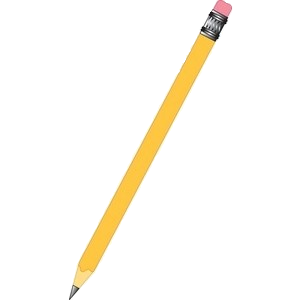
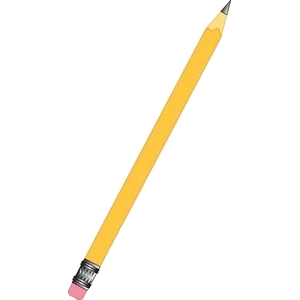
sizing

Changed region(s): [[0.21, 0.0, 0.78, 1.0]]

diff --git a/index.html b/index.html
@@ -36,7 +36,7 @@
 <body>
 
 <div id='page_wrap'>
-<!-- <img src='./images/p.PNG' id='pencil' ></img> -->
+<img src='./images/phalf.PNG' id='pencil' ></img>
 <img src='./images/eraser.gif' id='eraser' ></img>
 <img src='./images/paper.PNG' id='paper' ></img>
 <img src='./images/tofu.PNG' id='tofu' ></img>

diff --git a/style.css b/style.css
@@ -46,10 +46,11 @@ body {
 
 #pencil {
 	position: absolute;
-	margin-top:10px;
-	margin-left: 740px;
-	height:550px;
-	width: 340px;
+	margin-top:410px;
+	margin-left: 730px;
+	height:350px;
+	width: 260px;
+
 }
 
 #eraser {
